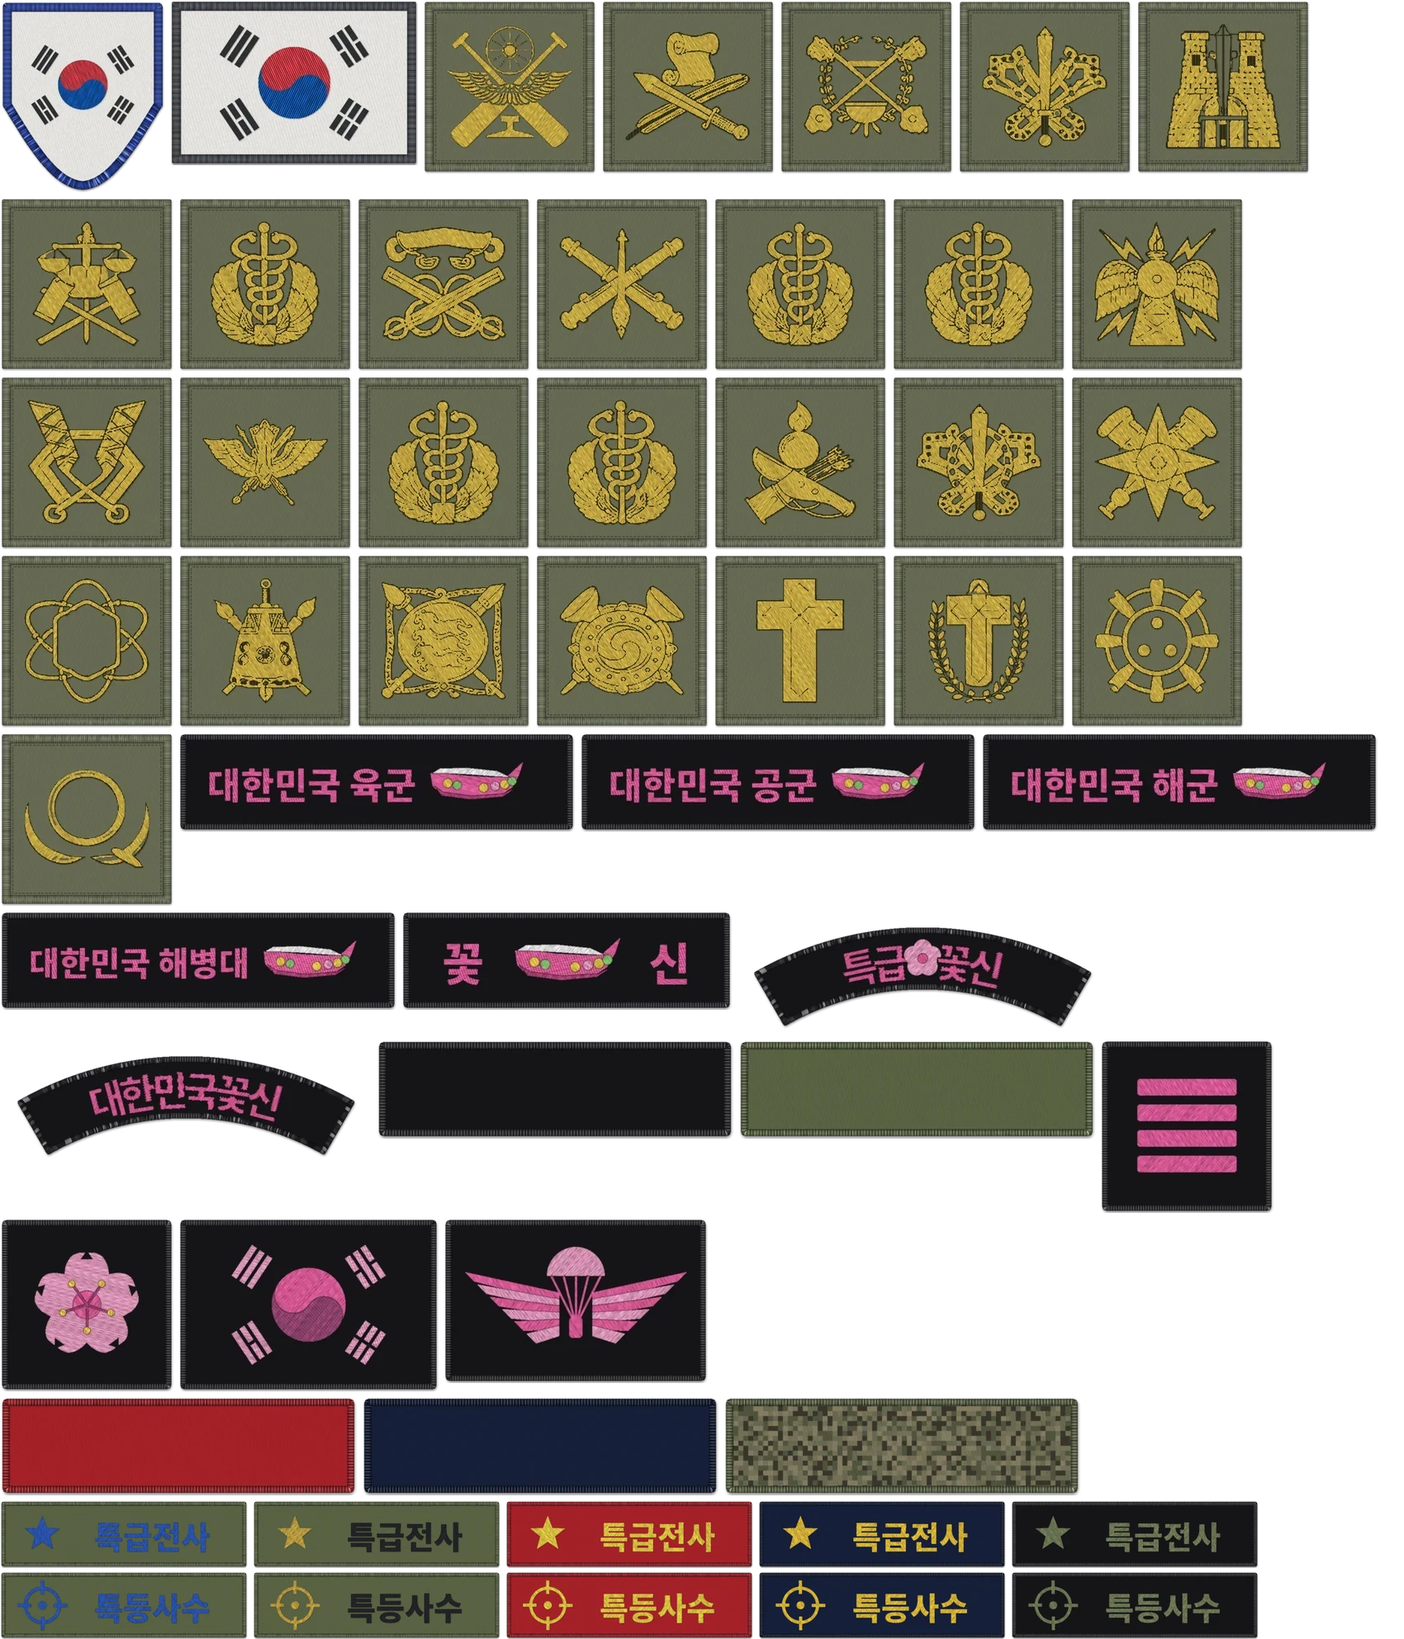
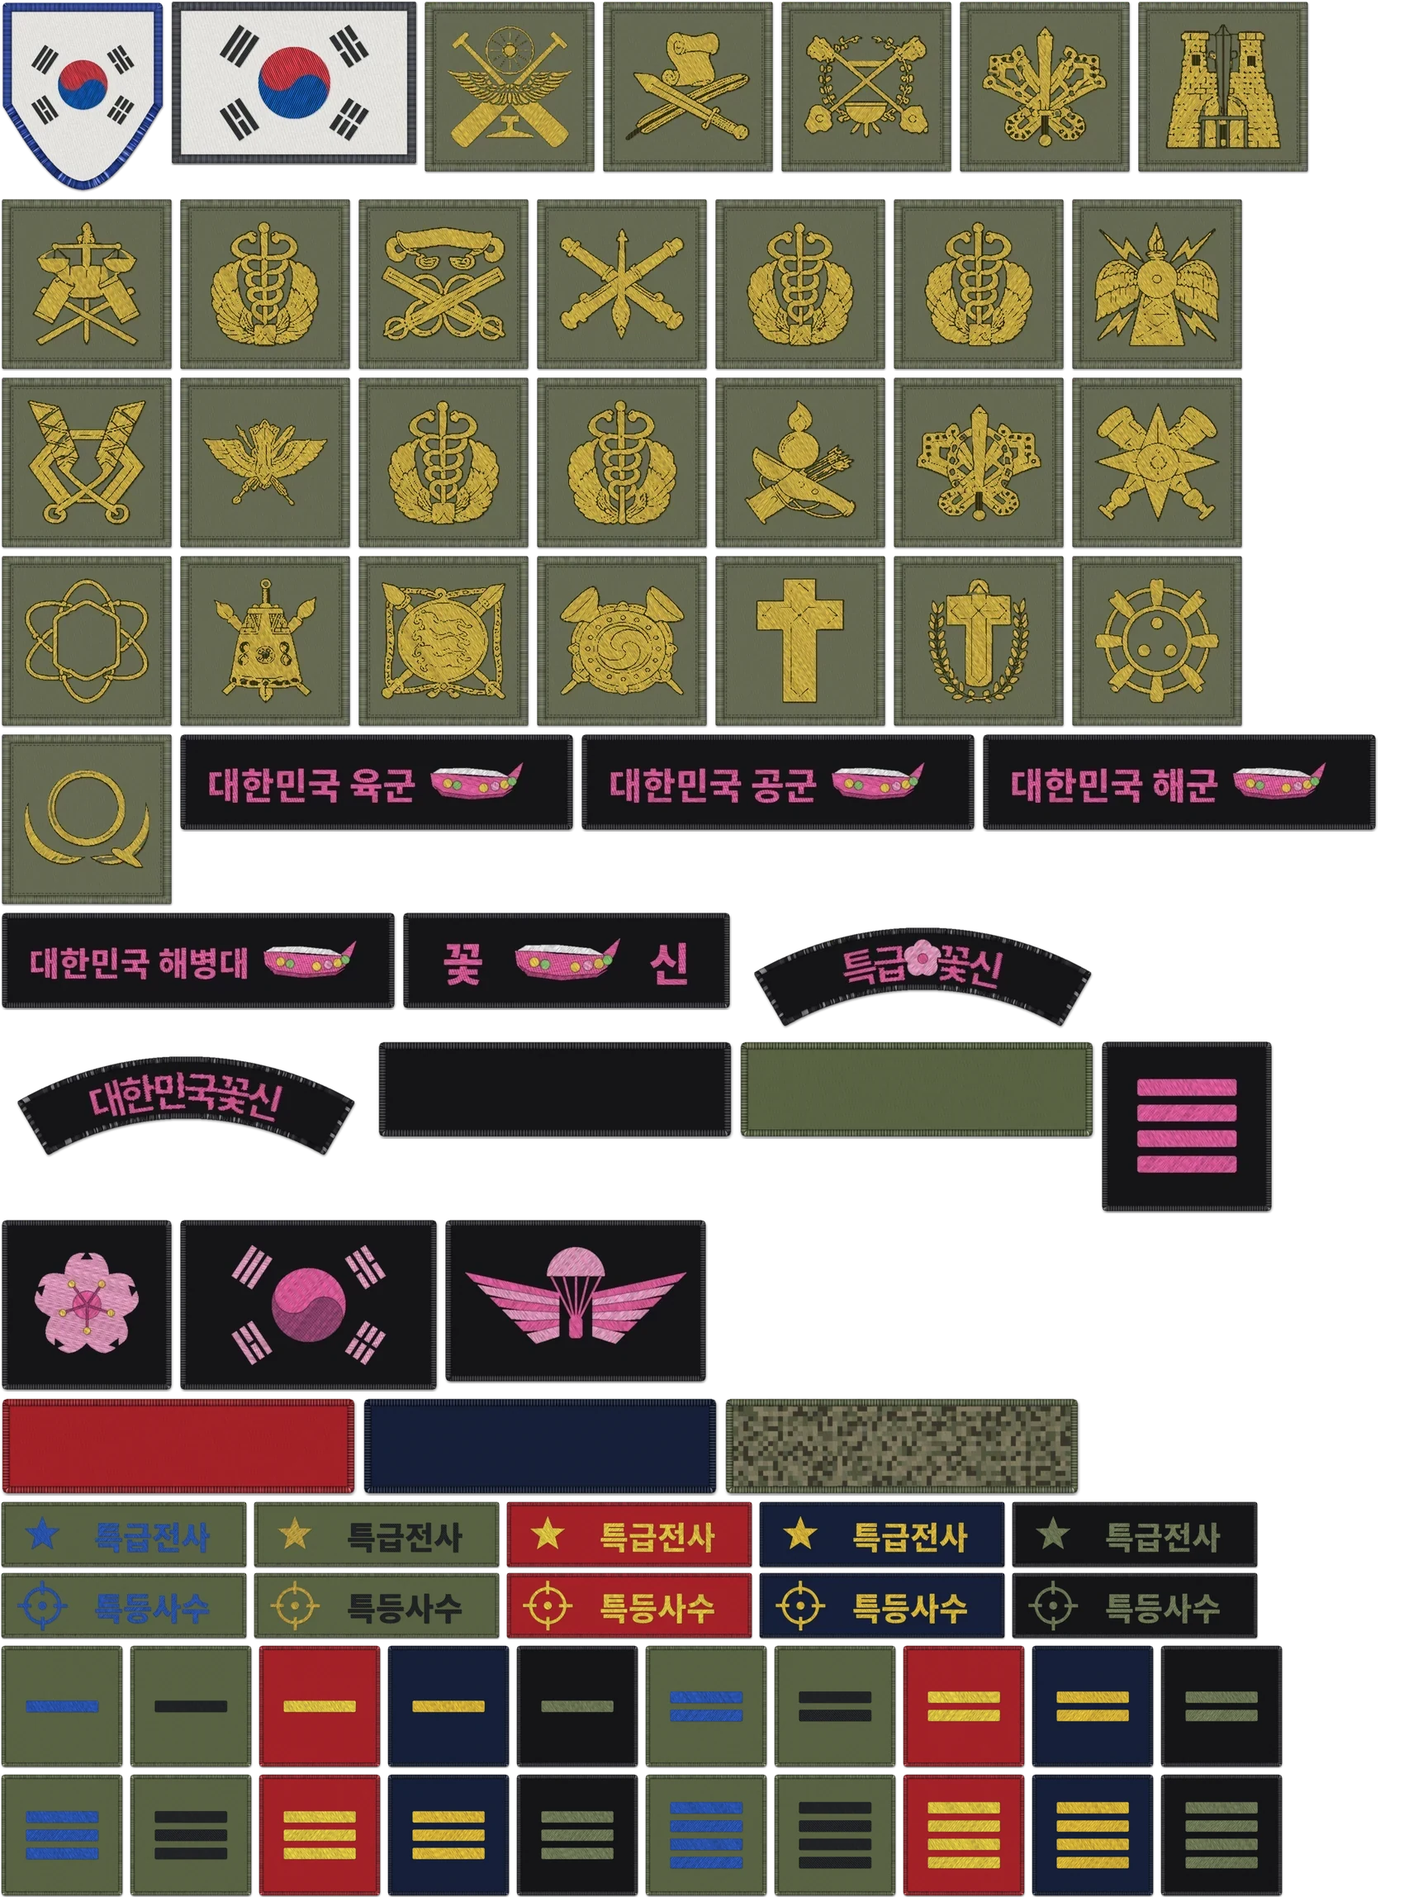
Add files via upload

diff --git a/zt-plus.js b/zt-plus.js
@@ -85,6 +85,10 @@ const ZP_ITEMS = {
   gt_bluefl: { n: '블루 플로럴', k: 'theme', aud: 'mil', cat: 'gtheme', bg: "linear-gradient(rgba(255,251,246,.42),rgba(255,251,246,.42)),url(gt_bluefl.webp?v=1) 0 0/240px auto repeat,#FFF", fg: '#5466A3', bar: 'linear-gradient(90deg,#8C9AD6,#B6C1E8)', trk: 'rgba(140,154,214,.18)' },
   gt_sparkle: { n: '스파클 스타', k: 'theme', aud: 'mil', cat: 'gtheme', bg: "linear-gradient(rgba(255,251,246,.42),rgba(255,251,246,.42)),url(gt_sparkle.webp?v=1) 0 0/260px auto repeat,#FFF", fg: '#6E87AC', bar: 'linear-gradient(90deg,#A3B9D8,#C6D5EA)', trk: 'rgba(163,185,216,.2)' },
   gt_rosefl: { n: '로즈 플로럴', k: 'theme', aud: 'mil', cat: 'gtheme', bg: "linear-gradient(rgba(255,251,246,.42),rgba(255,251,246,.42)),url(gt_rosefl.webp?v=1) 0 0/240px auto repeat,#FFF", fg: '#9A5E6E', bar: 'linear-gradient(90deg,#D99AAA,#EBC2CB)', trk: 'rgba(217,154,170,.2)' },
+  rk_1: { n: '이병 계급장', k: 'patch', aud: 'mil', spr2: 1, cat: 'rank' },
+  rk_2: { n: '일병 계급장', k: 'patch', aud: 'mil', spr2: 1, cat: 'rank' },
+  rk_3: { n: '상병 계급장', k: 'patch', aud: 'mil', spr2: 1, cat: 'rank' },
+  rk_4: { n: '병장 계급장', k: 'patch', aud: 'mil', spr2: 1, cat: 'rank' },
   pc_none: { n: '사진만 (틀 없음)', k: 'frame', aud: 'fan', free: 1 },
   pc_basic: { n: '기본 화이트', k: 'frame', aud: 'fan' },
   pc_polaroid: { n: '폴라로이드', k: 'frame', aud: 'fan' },
@@ -135,7 +139,7 @@ const ZP_ITEMS = {
   sk_love: { n: '러브 스티커 팩', k: 'sticker', aud: 'fan' },
   sk_army: { n: '밀리터리 스티커 팩', k: 'sticker', aud: 'fan' }
 };
-const ZP_CATS = { fan: [['frame', '포토카드 틀'], ['sticker', '스티커']], mil: [['theme', '프로필 테마'], ['gtheme', '곰신 테마'], ['patch', '패치 · 배지'], ['branch', '병과 패치'], ['gomsin', '곰신 에디션']] };
+const ZP_CATS = { fan: [['frame', '포토카드 틀'], ['sticker', '스티커']], mil: [['theme', '프로필 테마'], ['gtheme', '곰신 테마'], ['patch', '패치 · 배지'], ['rank', '계급장'], ['branch', '병과 패치'], ['gomsin', '곰신 에디션']] };
 const ZP_FAN_TABS = [
   ['home', '홈', '<path d="M3 9l9-7 9 7v11a2 2 0 0 1-2 2H5a2 2 0 0 1-2-2z"/><polyline points="9 22 9 12 15 12 15 22"/>'],
   ['drops', '떡밥', '<path d="M4 11a8 8 0 0 1 16 0"/><rect x="3" y="11" width="18" height="10" rx="2"/><circle cx="12" cy="16" r="2.5"/><line x1="9" y1="6" x2="10.5" y2="7.5"/>'],
@@ -364,7 +368,7 @@ const ZP_STK = {
 };
 const zpStkSVG = k => k === 'mug' ? MUG_SVG.replace('<svg', '<svg') : `<svg viewBox="0 0 24 24">${(ZP_STK[k] || {}).s || ''}</svg>`;
 
-const ZP_SPR = { c: { src: 'shop_patch3.webp', v: 4, W: 1700, H: 1985, m: {"pt_flag": [0, 0, 200, 233], "pt_flag2": [206, 0, 300, 200], "br_driver": [512, 0, 210, 210], "br_adjutant": [728, 0, 210, 210], "br_qm": [944, 0, 210, 210], "br_infantry": [1160, 0, 210, 210], "br_engineer": [1376, 0, 210, 210], "br_legal": [0, 239, 210, 210], "br_medadmin": [216, 239, 210, 210], "br_mp": [432, 239, 210, 210], "br_artillery": [648, 239, 210, 210], "br_vet": [864, 239, 210, 210], "br_dental": [1080, 239, 210, 210], "br_signal": [1296, 239, 210, 210], "br_finance": [0, 455, 210, 210], "br_aviation": [216, 455, 210, 210], "br_nurse": [432, 455, 210, 210], "br_medic": [648, 455, 210, 210], "br_ordnance": [864, 455, 210, 210], "br_armor": [1080, 455, 210, 210], "br_intel": [1296, 455, 210, 210], "br_chem": [0, 671, 210, 210], "br_pi": [216, 671, 210, 210], "br_inspect": [432, 671, 210, 210], "br_band": [648, 671, 210, 210], "br_chap_pr": [864, 671, 210, 210], "br_chap_ca": [1080, 671, 210, 210], "br_chap_bu": [1296, 671, 210, 210], "br_chap_wb": [0, 887, 210, 210], "gs_kr_army": [216, 887, 480, 120], "gs_kr_af": [702, 887, 480, 120], "gs_kr_navy": [1188, 887, 480, 120], "gs_kr_mc": [0, 1103, 480, 120], "gs_kkot": [486, 1103, 400, 120], "gs_tab1": [892, 1103, 450, 150], "gs_tab2": [0, 1259, 450, 150], "gs_name": [456, 1259, 432, 120], "nt_army": [894, 1259, 432, 120], "gs_rank": [1332, 1259, 210, 210], "gs_blossom": [0, 1475, 210, 210], "gs_flag": [216, 1475, 315, 210], "gs_wings": [537, 1475, 320, 200], "ntb_red": [0, 1691, 432, 120], "ntb_navy": [438, 1691, 432, 120], "ntb_digi": [876, 1691, 432, 120], "ntb_olive": [894, 1259, 432, 120], "ntb_black": [456, 1259, 432, 120], "pt_elite@af": [0, 1817, 300, 82], "pt_elite@army": [306, 1817, 300, 82], "pt_elite@mc": [612, 1817, 300, 82], "pt_elite@navy": [918, 1817, 300, 82], "pt_elite@spec": [1224, 1817, 300, 82], "pt_shooter@af": [0, 1903, 300, 82], "pt_shooter@army": [306, 1903, 300, 82], "pt_shooter@mc": [612, 1903, 300, 82], "pt_shooter@navy": [918, 1903, 300, 82], "pt_shooter@spec": [1224, 1903, 300, 82]} }, b: { src: 'shop_badges.png', W: 1280, H: 768, m: {"pt_elite":[18,86,220,84],"pt_shooter":[274,86,220,84],"pt_flag":[549,18,182,220],"pt_tiger":[805,18,182,220],"pt_heart":[1061,18,182,220],"bd_wings":[18,327,220,114],"bd_bolt":[293,274,182,220],"bd_eagle":[530,274,220,220],"bd_tiger":[805,274,182,220],"bd_trefoil":[1042,279,220,211],"bd_triangle":[18,539,220,202],"bd_anchor":[293,530,182,220],"bd_compass":[530,530,220,220]} }, t: { src: 'shop_themes.png', W: 1440, H: 1392, m: {"th_night":[12,12,336,208],"th_sakura":[372,12,336,208],"th_camo":[732,12,336,208],"th_ocean":[1092,12,336,208],"th_gold":[12,244,336,208],"st_black_gold":[372,244,336,208],"st_black_silver":[732,244,336,208],"st_white_gold":[1092,244,336,208],"st_white_silver":[12,476,336,208],"st_khaki_gold":[372,476,336,208],"st_navy_silver":[732,476,336,208],"st_ivory_rose":[1092,476,336,208],"st_carbon_gold":[12,708,336,208],"st_matte_black":[372,708,336,208],"st_matte_white":[732,708,336,208],"st_army_dress":[1092,708,336,208],"st_airforce_dress":[12,940,336,208],"st_navy_dress":[372,940,336,208],"st_navy_summer":[732,940,336,208],"st_honor_guard":[1092,940,336,208],"st_ceremony_grey":[12,1172,336,208],"st_general_green":[372,1172,336,208]} } };
+const ZP_SPR = { c: { src: 'shop_patch3.webp', v: 5, W: 1700, H: 2297, m: {"pt_flag": [0, 0, 200, 233], "pt_flag2": [206, 0, 300, 200], "br_driver": [512, 0, 210, 210], "br_adjutant": [728, 0, 210, 210], "br_qm": [944, 0, 210, 210], "br_infantry": [1160, 0, 210, 210], "br_engineer": [1376, 0, 210, 210], "br_legal": [0, 239, 210, 210], "br_medadmin": [216, 239, 210, 210], "br_mp": [432, 239, 210, 210], "br_artillery": [648, 239, 210, 210], "br_vet": [864, 239, 210, 210], "br_dental": [1080, 239, 210, 210], "br_signal": [1296, 239, 210, 210], "br_finance": [0, 455, 210, 210], "br_aviation": [216, 455, 210, 210], "br_nurse": [432, 455, 210, 210], "br_medic": [648, 455, 210, 210], "br_ordnance": [864, 455, 210, 210], "br_armor": [1080, 455, 210, 210], "br_intel": [1296, 455, 210, 210], "br_chem": [0, 671, 210, 210], "br_pi": [216, 671, 210, 210], "br_inspect": [432, 671, 210, 210], "br_band": [648, 671, 210, 210], "br_chap_pr": [864, 671, 210, 210], "br_chap_ca": [1080, 671, 210, 210], "br_chap_bu": [1296, 671, 210, 210], "br_chap_wb": [0, 887, 210, 210], "gs_kr_army": [216, 887, 480, 120], "gs_kr_af": [702, 887, 480, 120], "gs_kr_navy": [1188, 887, 480, 120], "gs_kr_mc": [0, 1103, 480, 120], "gs_kkot": [486, 1103, 400, 120], "gs_tab1": [892, 1103, 450, 150], "gs_tab2": [0, 1259, 450, 150], "gs_name": [456, 1259, 432, 120], "nt_army": [894, 1259, 432, 120], "gs_rank": [1332, 1259, 210, 210], "gs_blossom": [0, 1475, 210, 210], "gs_flag": [216, 1475, 315, 210], "gs_wings": [537, 1475, 320, 200], "ntb_red": [0, 1691, 432, 120], "ntb_navy": [438, 1691, 432, 120], "ntb_digi": [876, 1691, 432, 120], "ntb_olive": [894, 1259, 432, 120], "ntb_black": [456, 1259, 432, 120], "pt_elite@af": [0, 1817, 300, 82], "pt_elite@army": [306, 1817, 300, 82], "pt_elite@mc": [612, 1817, 300, 82], "pt_elite@navy": [918, 1817, 300, 82], "pt_elite@spec": [1224, 1817, 300, 82], "pt_shooter@af": [0, 1903, 300, 82], "pt_shooter@army": [306, 1903, 300, 82], "pt_shooter@mc": [612, 1903, 300, 82], "pt_shooter@navy": [918, 1903, 300, 82], "pt_shooter@spec": [1224, 1903, 300, 82], "rk_1@af": [0, 1991, 150, 150], "rk_1@army": [156, 1991, 150, 150], "rk_1@mc": [312, 1991, 150, 150], "rk_1@navy": [468, 1991, 150, 150], "rk_1@spec": [624, 1991, 150, 150], "rk_2@af": [780, 1991, 150, 150], "rk_2@army": [936, 1991, 150, 150], "rk_2@mc": [1092, 1991, 150, 150], "rk_2@navy": [1248, 1991, 150, 150], "rk_2@spec": [1404, 1991, 150, 150], "rk_3@af": [0, 2147, 150, 150], "rk_3@army": [156, 2147, 150, 150], "rk_3@mc": [312, 2147, 150, 150], "rk_3@navy": [468, 2147, 150, 150], "rk_3@spec": [624, 2147, 150, 150], "rk_4@af": [780, 2147, 150, 150], "rk_4@army": [936, 2147, 150, 150], "rk_4@mc": [1092, 2147, 150, 150], "rk_4@navy": [1248, 2147, 150, 150], "rk_4@spec": [1404, 2147, 150, 150]} }, b: { src: 'shop_badges.png', W: 1280, H: 768, m: {"pt_elite":[18,86,220,84],"pt_shooter":[274,86,220,84],"pt_flag":[549,18,182,220],"pt_tiger":[805,18,182,220],"pt_heart":[1061,18,182,220],"bd_wings":[18,327,220,114],"bd_bolt":[293,274,182,220],"bd_eagle":[530,274,220,220],"bd_tiger":[805,274,182,220],"bd_trefoil":[1042,279,220,211],"bd_triangle":[18,539,220,202],"bd_anchor":[293,530,182,220],"bd_compass":[530,530,220,220]} }, t: { src: 'shop_themes.png', W: 1440, H: 1392, m: {"th_night":[12,12,336,208],"th_sakura":[372,12,336,208],"th_camo":[732,12,336,208],"th_ocean":[1092,12,336,208],"th_gold":[12,244,336,208],"st_black_gold":[372,244,336,208],"st_black_silver":[732,244,336,208],"st_white_gold":[1092,244,336,208],"st_white_silver":[12,476,336,208],"st_khaki_gold":[372,476,336,208],"st_navy_silver":[732,476,336,208],"st_ivory_rose":[1092,476,336,208],"st_carbon_gold":[12,708,336,208],"st_matte_black":[372,708,336,208],"st_matte_white":[732,708,336,208],"st_army_dress":[1092,708,336,208],"st_airforce_dress":[12,940,336,208],"st_navy_dress":[372,940,336,208],"st_navy_summer":[732,940,336,208],"st_honor_guard":[1092,940,336,208],"st_ceremony_grey":[12,1172,336,208],"st_general_green":[372,1172,336,208]} } };
 /* 상점 그림(이미지) — 올라와 있으면 이미지로, 없으면 코드로 그린 그림으로 */
 zp.spr = {};
 ['c', 'b', 't'].forEach(k => { const im = new Image(); im.onload = () => { zp.spr[k] = true; try { zpApplyEquip(); const el = zpShopEl(); if (el && el.querySelector('.zp-grid')) zpShopRender(el); } catch (e) { } }; im.src = ZP_SPR[k].src + '?v=' + (ZP_SPR[k].v || 2); });
@@ -377,9 +381,10 @@ function zpSpr(k, id, css) {
 const ZP_TABV = [['army', '육군'], ['af', '공군'], ['navy', '해군'], ['mc', '해병대'], ['spec', '특수부대 흑복']];
 const ZP_VAR = {
   nt_army: [['army', '육군', 'ntb_olive', '#16181B', '#4A4E44'], ['af', '공군', 'ntb_olive', '#1F4FB8', '#7FA0E8'], ['navy', '해군', 'ntb_navy', '#F2C230', '#FFF0A8'], ['mc', '해병대', 'ntb_red', '#F6D23A', '#FFF2A0'], ['digi', '육군 디지털', 'ntb_digi', '#16181B', '#3A3E34'], ['spec', '특전사 · 707 흑복', 'ntb_black', '#6E7A52', '#9AA67C'], ['sdt', '군사경찰 SDT', 'ntb_black', '#8A8E94', '#C4C8CE'], ['udt', '해군 UDT · SSU', 'ntb_black', '#F2C230', '#FFF0A8'], ['vet', '전역 기념', 'ntb_olive', '#F4F4F0', '#FFFFFF']],
-  pt_elite: ZP_TABV, pt_shooter: ZP_TABV
+  pt_elite: ZP_TABV, pt_shooter: ZP_TABV, rk_1: ZP_TABV, rk_2: ZP_TABV, rk_3: ZP_TABV, rk_4: ZP_TABV
 };
-const zpVar = (id, eq) => { const L = ZP_VAR[id]; if (!L) return null; const v = eq && eq.pv && eq.pv[id]; return L.find(x => x[0] === v) || L[0]; };
+const ZP_BRV = { army: 'army', airforce: 'af', navy: 'navy', marine: 'mc' };
+const zpVar = (id, eq) => { const L = ZP_VAR[id]; if (!L) return null; const v = (eq && eq.pv && eq.pv[id]) || ZP_BRV[(eq && eq._br) || (me && me.gender === 'M' && me.branch)]; return L.find(x => x[0] === v) || L[0]; };
 /* 그림 키: 군별 색상이 있으면 'pt_elite@navy' 같은 키 */
 const zpKey = (id, eq) => { const V = zpVar(id, eq); if (!V) return id; if (ZP_ITEMS[id] && ZP_ITEMS[id].nt) return V[2]; const k = id + '@' + V[0]; return ZP_SPR.c.m[k] && zp.spr.c ? k : id; };
 const zpNtOf = (id, eq) => { eq = eq || {}; return (eq.nts && eq.nts[id]) || eq.nt || {}; };
@@ -531,7 +536,7 @@ function zpEnsureSt() { if (zpEnsureSt.d || typeof STAR_TH === 'undefined') retu
 function zpLum(hex) { const m = /^#?([0-9a-f]{6})$/i.exec(String(hex || '').trim()); if (!m) return 1; const n = parseInt(m[1], 16); return (.299 * (n >> 16) + .587 * (n >> 8 & 255) + .114 * (n & 255)) / 255; }
 const ZP_THBAR = { th_night: ['linear-gradient(90deg,#8C7BE0,#D9CCFF)', 'rgba(255,255,255,.14)'], th_sakura: ['linear-gradient(90deg,#FFFFFF,#FFE3EC)', 'rgba(255,255,255,.32)'], th_camo: ['linear-gradient(90deg,#9AA86F,#D7DFAE)', 'rgba(0,0,0,.22)'], th_ocean: ['linear-gradient(90deg,#4FB3E8,#BDE9FF)', 'rgba(255,255,255,.16)'], th_gold: ['linear-gradient(90deg,#B98A2B,#F6DE8E)', 'rgba(0,0,0,.28)'] };
 function zpStyleCard(card, thId, ptId, nt) {
-  nt = nt && (nt.nt || nt.nts || nt.pv) ? { nt: nt.nt, nts: nt.nts, pv: nt.pv } : nt && nt.ko ? { nt } : {};
+  nt = nt && (nt.nt || nt.nts || nt.pv || nt._br) ? { nt: nt.nt, nts: nt.nts, pv: nt.pv, _br: nt._br } : nt && nt.ko ? { nt } : {};
   zpEnsureSt(); if (card.dataset.bg0 === undefined) { card.dataset.bg0 = card.style.background; card.dataset.c0 = card.style.color; }
   card.classList.remove('zp-th', 'zp-lt'); card.style.removeProperty('--zbar'); card.style.removeProperty('--ztrk'); card.style.position = 'relative';
   const it = ZP_ITEMS[thId];
@@ -558,12 +563,12 @@ function zpHero(which) {
   if (!me || zpFan()) return; const h = q(which === 'gd' ? 'gd-hero' : 'sd-hero'); if (!h) return;
   const card = h.parentElement && h.parentElement.parentElement; if (!card) return;
   const P = which === 'gd' ? (typeof G_ === 'function' ? G_() : null) : (typeof S_ === 'function' ? S_() : null), eq = (P && P.equip) || {};
-  card.style.position = 'relative'; zpStyleCard(card, eq.theme, zpPatches(eq), eq);
+  card.style.position = 'relative'; zpStyleCard(card, eq.theme, zpPatches(eq), Object.assign({}, eq, { _br: P && P.branch }));
 }
 function zpApplyEquip() {
   if (!me || zpFan()) return;
   const sol = me.gender === 'M' ? me : (partner && partner.gender === 'M' ? partner : null), gom = me.gender === 'F' ? me : (partner && partner.gender === 'F' ? partner : null);
-  [['soldier-card', sol], ['gf-profile-card', gom]].forEach(([id, P]) => { const card = document.querySelector('#' + id + ' .pcard'); if (!card) return; const eq = (P && P.equip) || {}; zpStyleCard(card, eq.theme, zpPatches(eq), eq); });
+  [['soldier-card', sol], ['gf-profile-card', gom]].forEach(([id, P]) => { const card = document.querySelector('#' + id + ' .pcard'); if (!card) return; const eq = Object.assign({}, (P && P.equip) || {}, { _br: P && P.branch }); zpStyleCard(card, eq.theme, zpPatches(eq), eq); });
 }
 
 /* ---------- 상점 ---------- */
@@ -594,7 +599,7 @@ async function zpShopRender(el) {
   const inv = zp.cat === 'inv', eq = (me && me.equip) || {};
   const list = Object.entries(ZP_ITEMS).filter(([id, it]) => it.aud === zpAud() && zp.price[id] !== undefined && (inv ? zp.owned.has(id) : (it.cat || it.k) === zp.cat));
   const cnt = Object.keys(ZP_ITEMS).filter(id => ZP_ITEMS[id].aud === zpAud() && !ZP_ITEMS[id].free && zp.owned.has(id)).length;
-  const note = inv ? '산 아이템은 모두 여기 있어요. 테마와 패치는 여기서 바꿔 끼울 수 있어요' : zp.cat === 'frame' ? '틀을 사면 홈에서 원하는 사진으로 포토카드를 만들 수 있어요' : zp.cat === 'sticker' ? '포토카드를 꾸밀 때 쓸 수 있는 스티커예요' : (zp.cat === 'theme' || zp.cat === 'gtheme') ? '홈 프로필 카드의 색이 바뀌어요. 연인에게도 보여요 · 눌러서 미리보기' : '프로필 카드 오른쪽 위에 붙어요. 연인에게도 보여요 · 눌러서 미리보기';
+  const note = inv ? '산 아이템은 모두 여기 있어요. 테마와 패치는 여기서 바꿔 끼울 수 있어요' : zp.cat === 'frame' ? '틀을 사면 홈에서 원하는 사진으로 포토카드를 만들 수 있어요' : zp.cat === 'sticker' ? '포토카드를 꾸밀 때 쓸 수 있는 스티커예요' : zp.cat === 'rank' ? '계급장은 육군 · 공군 · 해군 · 해병대 · 특수부대 색상이 있어요 · 미리보기에서 넘겨서 골라요' : (zp.cat === 'theme' || zp.cat === 'gtheme') ? '홈 프로필 카드의 색이 바뀌어요. 연인에게도 보여요 · 눌러서 미리보기' : '프로필 카드 오른쪽 위에 붙어요. 연인에게도 보여요 · 눌러서 미리보기';
   el.innerHTML = `<div class="zp-card mt-2 flex items-center gap-3" style="background:linear-gradient(135deg,#191F28,#2B3340);color:#fff;border:0">${zpMug('md')}<div><div class="text-[12px] opacity-70">내 무궁화</div><div class="text-[24px] font-black tabular-nums zp-bal2">${zpFmt(zp.bal)}</div></div><div class="ml-auto text-right text-[11px] opacity-70 leading-relaxed">매일 출석하면<br>1~30개 · 행운 100개</div></div>
    <div class="zp-chips mt-4">${cats.map(([k, n]) => `<button class="${k === zp.cat ? 'on' : ''}" onclick="zp.cat='${k}';zpShopRender(zpShopEl())">${n}${k === 'inv' && cnt ? ` ${cnt}` : ''}</button>`).join('')}</div>
    <p class="text-[12px] text-[#8B95A1] mt-3 mb-3 px-1">${note}</p>

diff --git a/service-worker.js b/service-worker.js
@@ -1,4 +1,4 @@
-const C='zzamtiger-v90',A=['./','index.html','manifest.json','logo.png','icon-192.png','tiger_cheer.png','splash.jpg','card_hana.png','card_shinhan.png','card_ibk.png','card_kb.png','tiger_recruit.svg','tiger_ib.png','tiger_ilb.png','tiger_sb.png','tiger_bj.png','gf_cat.png','gf_bear.png','passbook.jpg','questions.js','px.js','route.js','stars.js','starq.js','zt-plus.js','shop_badges.png','shop_themes.png','shop_patch2.png','shop_patch3.webp','gt_fuzzy.webp','gt_plaid.webp','gt_wavy.webp','gt_bluefl.webp','gt_sparkle.webp','gt_rosefl.webp','rl_car.png','rl_wheelL.png','rl_wheelR.png','px_cream.jpg','px_serum.jpg','px_toner.jpg','px_mask.jpg','px_sun.jpg','px_cleansing.jpg','px_trouble.jpg','px_makeup.jpg','px_men.jpg','px_hair.jpg','px_body.jpg','px_lip.jpg'];
+const C='zzamtiger-v91',A=['./','index.html','manifest.json','logo.png','icon-192.png','tiger_cheer.png','splash.jpg','card_hana.png','card_shinhan.png','card_ibk.png','card_kb.png','tiger_recruit.svg','tiger_ib.png','tiger_ilb.png','tiger_sb.png','tiger_bj.png','gf_cat.png','gf_bear.png','passbook.jpg','questions.js','px.js','route.js','stars.js','starq.js','zt-plus.js','shop_badges.png','shop_themes.png','shop_patch2.png','shop_patch3.webp','gt_fuzzy.webp','gt_plaid.webp','gt_wavy.webp','gt_bluefl.webp','gt_sparkle.webp','gt_rosefl.webp','rl_car.png','rl_wheelL.png','rl_wheelR.png','px_cream.jpg','px_serum.jpg','px_toner.jpg','px_mask.jpg','px_sun.jpg','px_cleansing.jpg','px_trouble.jpg','px_makeup.jpg','px_men.jpg','px_hair.jpg','px_body.jpg','px_lip.jpg'];
 self.addEventListener('install',e=>{e.waitUntil(caches.open(C).then(c=>c.addAll(A)).then(()=>self.skipWaiting()))});
 self.addEventListener('activate',e=>{e.waitUntil(caches.keys().then(k=>Promise.all(k.filter(x=>x!==C).map(x=>caches.delete(x)))).then(()=>self.clients.claim()))});
 self.addEventListener('fetch',e=>{const r=e.request;if(r.method!=='GET'||new URL(r.url).origin!==location.origin)return;
